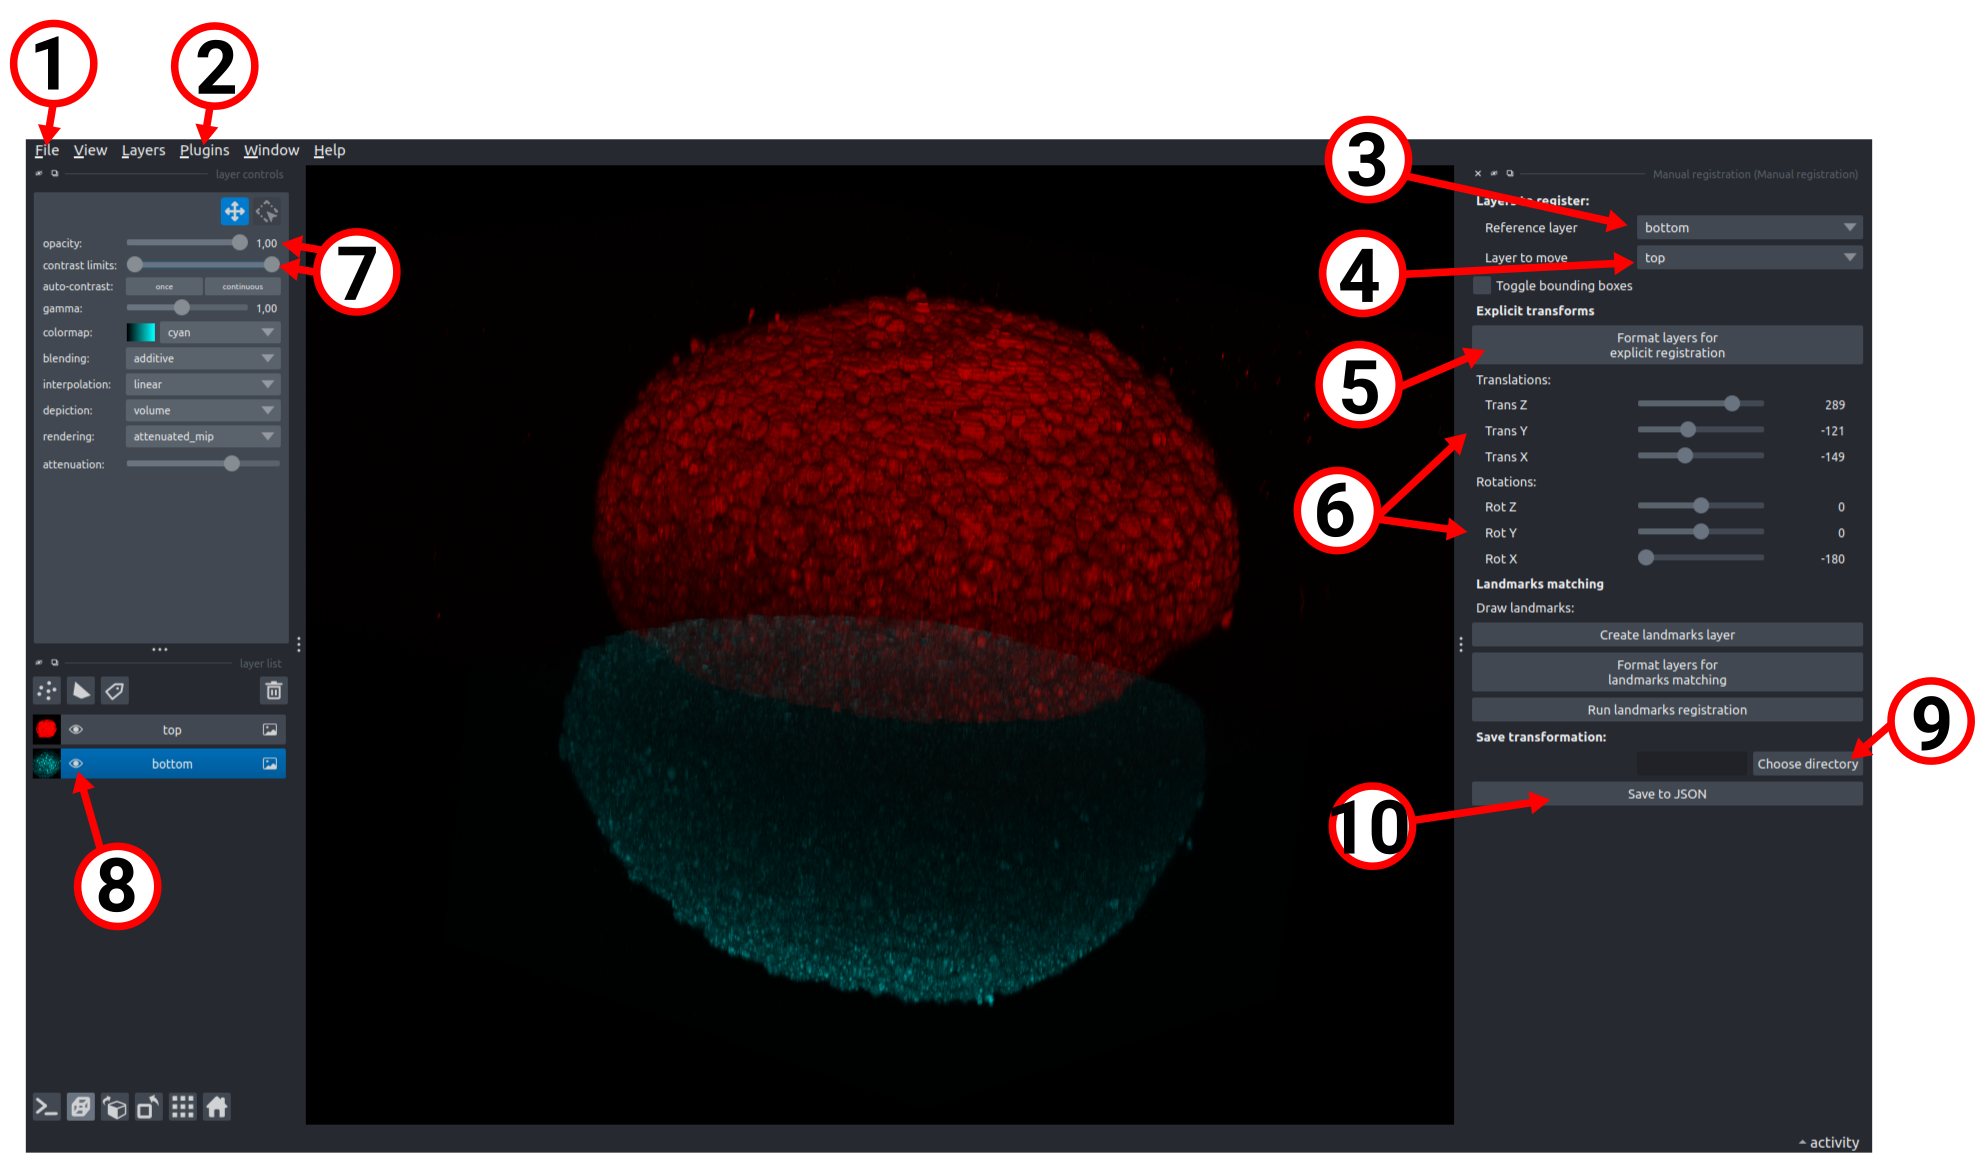
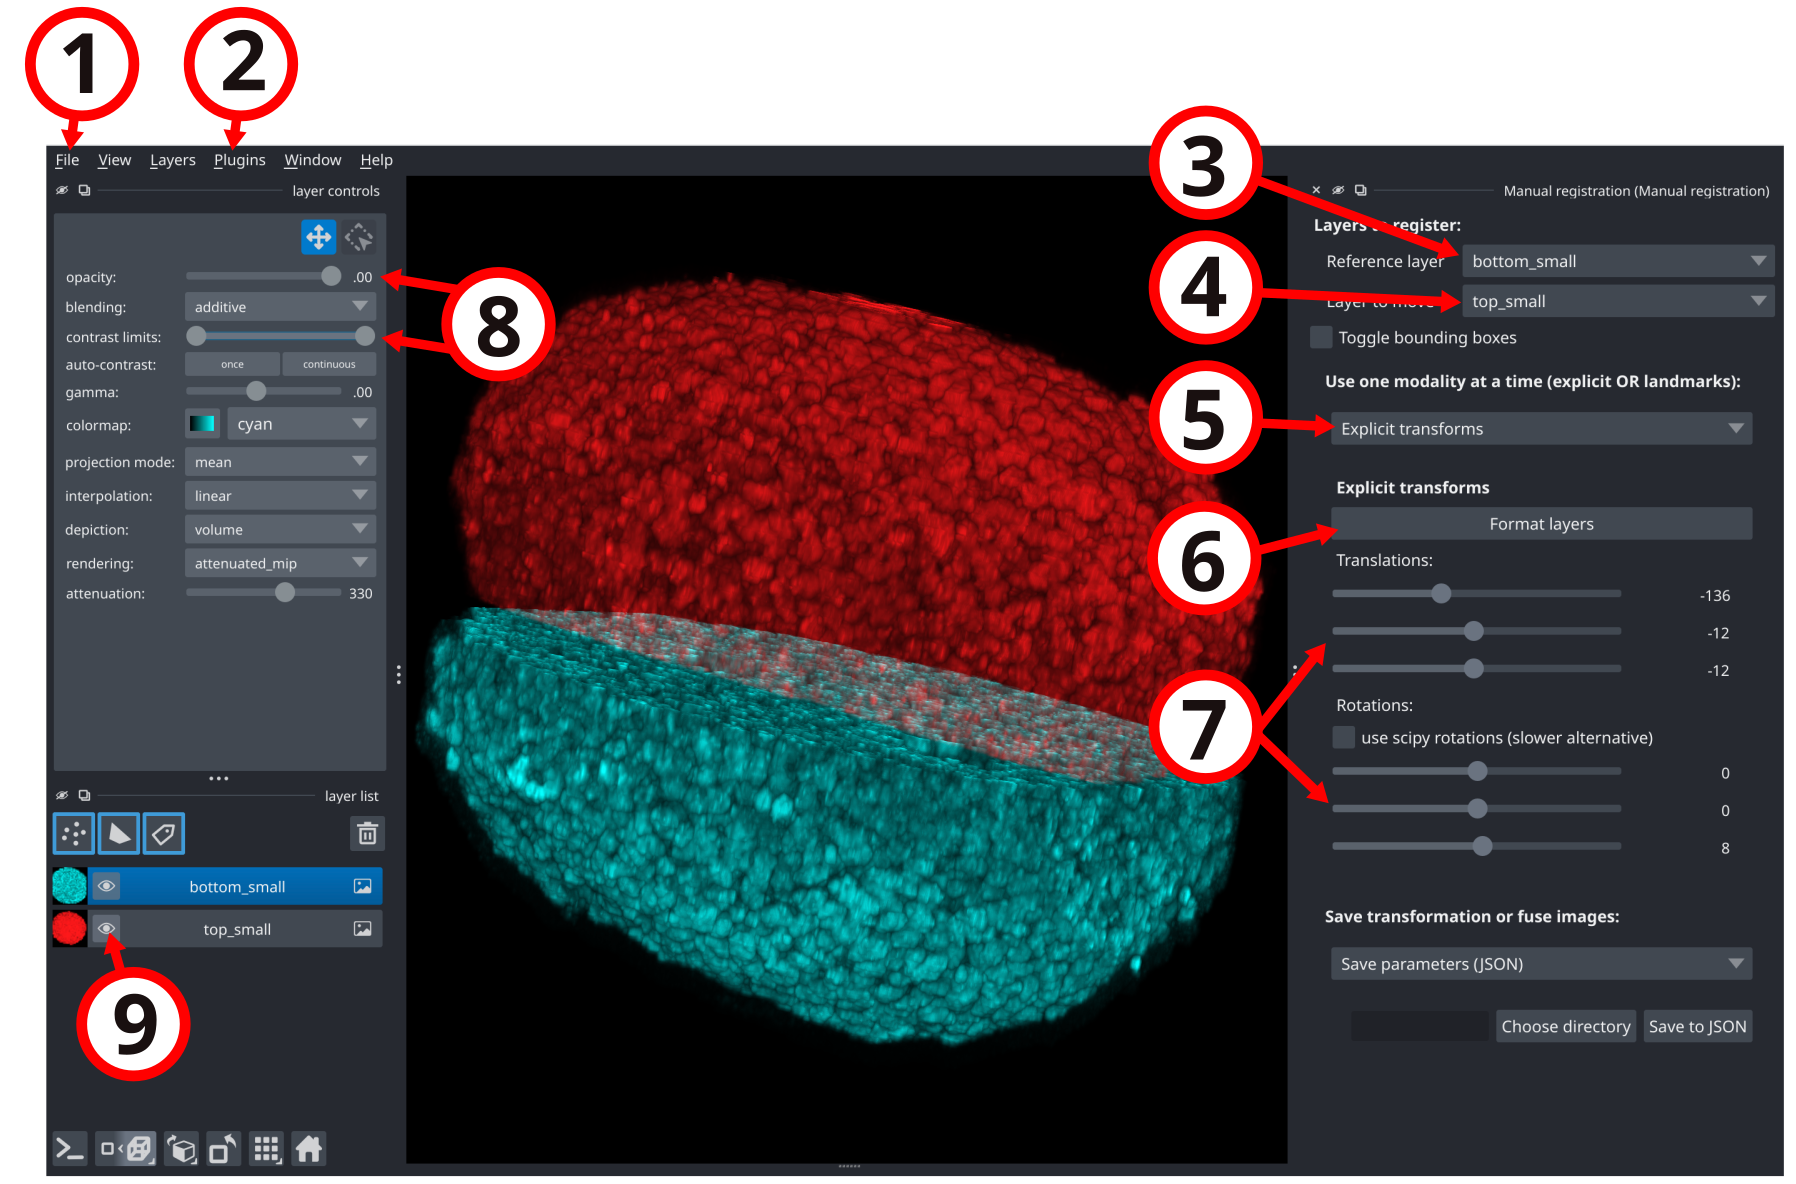
modified tutorial with new fusion feature

diff --git a/src/napari_manual_registration/_widget.py b/src/napari_manual_registration/_widget.py
@@ -220,7 +220,7 @@ class RegistrationWidget(Container):
         )
         self._save_mode_note.visible = False
         self._save_section_label = Label(
-            value="<b>Save transformation:</b>"
+            value="<b>Save transformation or fuse images:</b>"
         )
 
         self._fuse_output_path = create_widget(

diff --git a/README.md b/README.md
@@ -26,8 +26,6 @@ When using our automatic registration tool to spatially register two views of th
 
 1. **annotate matching salient landmarks** (e.g bright dead cells or lumen-like structures) in both the reference and floating views, from which an optimal rigid transformation can be found automatically using principal component analysis.
 
-
-
 2. **manually define a rigid transformation** by continually varying 3D rotations and translations while observing the results until a satisfying fit is found
 
 <img src="imgs/Fig_Napari_registration.png">
@@ -42,9 +40,9 @@ You can also install `napari-manual-registration` via [pip]:
 
     pip install napari-manual-registration
 
-To install latest development version :
+To get the option to directly fuse the registered views in Napari, you will also need to install the package `vt` from the `morpheme` channel:
 
-    pip install git+https://github.com/jules-vanaret/napari-manual-registration.git
+    conda install vt -c morpheme
 
 ## Usage
 
@@ -53,6 +51,13 @@ The plugin provides two methods to register two views of the same object. The fi
 > [!CAUTION]
 > Be aware that the visualization does not accomodate for voxel anisotropy, so we recommend using isotropic data, or to resize you anisotropic data to an isotropic voxel size (e.g by using [napari-tapenade-processing](https://github.com/GuignardLab/napari-tapenade-processing)).
 
+Tutorials structure:
+- A. Registration by annotating salient landmarks
+- B. Registration by selecting explicit transformation parameters
+        - Registration with 3D view
+        - Registration with 2D view
+- C. Export the transformation parameters to a JSON file or fuse the registered views
+
 ### A. Registration by annotating salient landmarks
 
 <img src="imgs/reg_2_3.png">
@@ -60,8 +65,8 @@ The plugin provides two methods to register two views of the same object. The fi
 Steps:
 1. First, load your images in Napari. You can drag and drop them from your file explorer to the Napari viewer, or open them using the `File > Open files...` menu.
 2. Click on the `Plugins > Manual Registration` menu to open the plugin.
-3. Select the reference layer from the combo box. The reference layer is chosen to be the one that does not move.
-4. Select the floating layer from the combo box. The floating layer is the one that will be transformed.
+3. Select the reference layer from the combo box. The reference layer is chosen to be the one that does not move. Select the floating layer from the combo box. The floating layer is the one that will be transformed.
+4. Select "Landmarks matching" from the drop down menu.
 5. Click the `Create landmarks layers` button to create two new Labels layers that will be used to annotate the landmarks in the reference and floating views.
 6. We recommend pressing the `Format layers for landmarks matching` button so that your layers are automatically formatted for you to begin the registration process. Napari offers a wide range of customisation options for the layers appearances, so feel free to play with them if our formatting does not fit your preferences. ;)
 7. We first recommend hiding the reference layer and the reference landmarks layer by clicking on the eye icon next to the layer name in the layer list. This will allow you to focus on the floating layer and the floating landmarks layer.
@@ -75,8 +80,9 @@ Steps:
 15. Navigate to the z-slice of the reference view that corresponds to the z-slice of the floating view where you drew the first landmark.
 16. Draw a "blob" around the corresponding landmark in the reference view by clicking and dragging your mouse.
 17. Increment your label value by clicking on the `+` button in the layer properties widget each time you draw a new widget. Repeat steps 15 to 17 until you have annotated all the salient landmarks in the reference view.
-18. Once you have annotated all the salient landmarks in the reference view, click on the `Run landmark registration` button. The plugin will automatically find the optimal transformation that aligns the floating landmarks to the reference landmarks using principal component analysis. 
-19. If you are satisfied with the registration, choose a directory to save the transformation parameters by clicking on the `Choose directory` button. The transformation parameters will be saved in a `.json` file in this directory. Finally, click on the `Save to JSON` button to save the transformation parameters.
+18. Once you have annotated all the salient landmarks in the reference view, click on the `Run landmark registration` button. The plugin will automatically find the optimal transformation that aligns the floating landmarks to the reference landmarks using principal component analysis.
+
+Go to section C to learn how to save the transformation parameters or fuse the registered views in Napari.
 
 ### B. Registration by selecting explicit transformation parameters
 
@@ -92,25 +98,47 @@ Steps:
 2. Click on the `Plugins > Manual Registration` menu to open the plugin.
 3. Select the reference layer from the combo box. The reference layer is chosen to be the one that does not move.
 4. Select the floating layer from the combo box. The floating layer is the one that will be transformed.
-5. We recommend pressing the `Format layers for explicit registration` button so that your layers are automatically formatted for you to begin the registration process. Napari offers a wide range of customisation options for the layers appearances, so feel free to play with them if our formatting does not fit your preferences. ;)
-6. You can now start the registration process by moving the `Translations` and `Rotations` sliders. The floating layer will be transformed in real-time according to the selected parameters. 
-7. To optimize the visibility of your images, you can change the contrast limits and opacity of a layer by clicking on the layer name in the layer list and adjusting the sliders in the layer properties widget.
-8. If you wish to hide a layer, you can click on the eye icon next to the layer name in the layer list.
-9. Once you are satisfied with the registration, choose a directory to save the transformation parameters by clicking on the `Choose directory` button. The transformation parameters will be saved in a `.json` file in this directory.
-10. Finally, click on the `Save to JSON` button to save the transformation parameters.
+5. Select "Explicit transforms" from the drop down menu.
+6. We recommend pressing the `Format layers` button so that your layers are automatically formatted for you to begin the registration process. Napari offers a wide range of customisation options for the layers appearances, so feel free to play with them if our formatting does not fit your preferences. ;)
+7. You can now start the registration process by moving the `Translations` and `Rotations` sliders. The floating layer will be transformed in real-time according to the selected parameters. 
+8. To optimize the visibility of your images, you can change the contrast limits and opacity of a layer by clicking on the layer name in the layer list and adjusting the sliders in the layer properties widget.
+9. If you wish to hide a layer, you can click on the eye icon next to the layer name in the layer list.
+
+Go to section C to learn how to save the transformation parameters or fuse the registered views in Napari.
 
 #### Registration with 2D view
 
 <img src="imgs/reg_1.png">
 
-Steps (the steps 1 to 5 are the same as for the 3D registration):
+Steps (the steps 1 to 6 are the same as for the 3D registration):
 
-6. If you want to switch to the 2D view, click on the `Toggle 2D/3D view` button (it resembles a square when in 2D mode, or a cube when in 3D mode).
-7. Again, feel free to play with the contrast limits and opacity of the layers to optimize the visibility of your images. First click on the layer name in the layer list, then adjust the sliders in the layer properties widget.
-8. If you wish to hide a layer, you can click on the eye icon next to the layer name in the layer list.
-9. In 2D mode, a slider appears at the bottom of the plugin window. You can use it to slide through the z-slices of your images.
-10. You can now start the registration process by moving the `Translations` and `Rotations` sliders. The floating layer will be transformed in real-time according to the selected parameters.
-11. Once you are satisfied with the registration, choose a directory to save the transformation parameters by clicking on the `Choose directory` button. The transformation parameters will be saved in a `.json` file in this directory. Finally, click on the `Save to JSON` button to save the transformation parameters.
+7. If you want to switch to the 2D view, click on the `Toggle 2D/3D view` button (it resembles a square when in 2D mode, or a cube when in 3D mode).
+8. In 2D mode, a slider appears at the bottom of the plugin window. You can use it to slide through the z-slices of your images.
+9. If you wish to hide a layer, you can click on the eye icon next to the layer name in the layer list.
+10. Again, feel free to play with the contrast limits and opacity of the layers to optimize the visibility of your images. First click on the layer name in the layer list, then adjust the sliders in the layer properties widget.
+11. You can now start the registration process by moving the `Translations` and `Rotations` sliders. The floating layer will be transformed in real-time according to the selected parameters.
+
+Go to section C to learn how to save the transformation parameters or fuse the registered views in Napari.
+
+
+### C. Export the transformation parameters to a JSON file or fuse the registered views in Napari
+
+#### Save the transformation parameters to a JSON file
+
+1. Once you are satisfied with the registration, select "Save Parameters (JSON)" from the drop down menu.
+2. Choose a directory to save the transformation parameters by clicking on the `Choose directory` button. The transformation parameters will be saved in a `.json` file in this directory.
+3. Finally, click on the `Save to JSON` button to save the transformation parameters.
+
+<img src="imgs/export_save.png" width="50%">
+
+#### Fuse the registered views (optionnally load the fused image in Napari)
+
+1. Once you are satisfied with the registration, select "Fuse views" from the drop down menu.
+2. Choose a directory to save the fused image by clicking on the `Choose directory` button. Type the name of the fused image in the `Output name` text box. The fused image will be saved in this directory with the specified name.
+3. Optionally, if you want to load the fused image in Napari, check the `Load fused as layer` checkbox.
+4. Finally, click on the `Run fusion` button to fuse the registered views and save the fused image. If you checked the `Load fused as layer` checkbox, the fused image will also be loaded in Napari as a new layer.
+
+<img src="imgs/export_fuse.png" width="50%">
 
 ## Demo dataset
 
